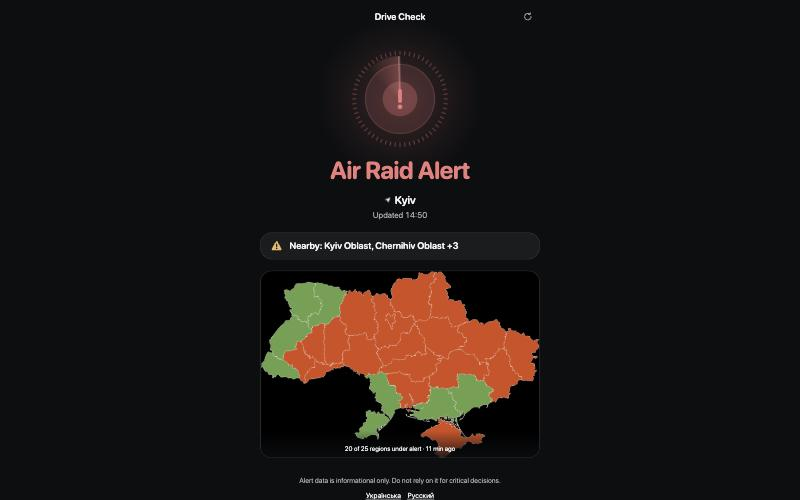
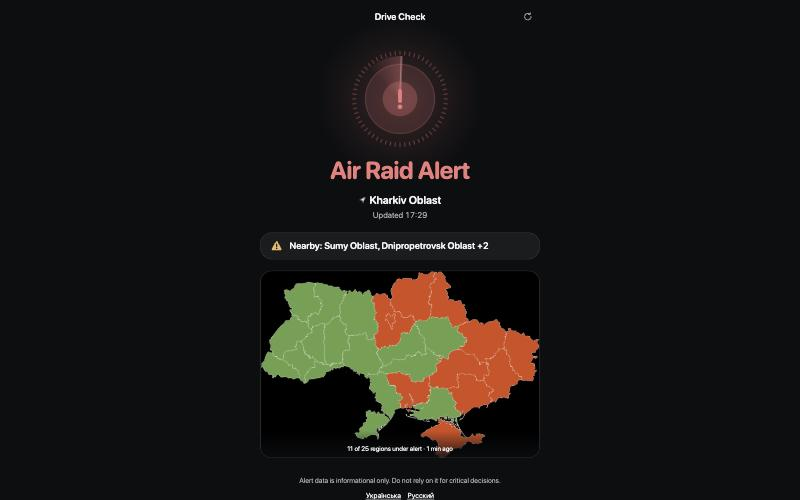
docs: refresh the web app screenshots after the review fixes
The earlier shots predated the clockwise sweep, the overflow fixes, the
Regions age line and the one-language offline page. The new set shows Status
in alarm and calm, Regions and the offline page on a 375 px phone and a
1440 px desktop, from wrangler dev with the live feed.

Validation: npm run check (134 tests); shots taken in the desktop browser.

diff --git a/specs/002-installable-web-app/plan.md b/specs/002-installable-web-app/plan.md
@@ -74,8 +74,8 @@ New:
 - `public/manifest.webmanifest`, `public/icons/*` (from the iOS AppIcon via `sips`),
   `public/_headers`; `scripts/app-assets.mjs` (writes `public/app/assets.json`);
   `tsconfig.client.json`, `tsconfig.sw.json`; `tests/node.d.ts`.
-- `docs/screenshots/`: phone (375 px) Status alarm after idle, Stay Alert (en, uk), quiet, stale,
-  Regions and offline (uk); desktop (1440 px) Status alarm and Regions (uk).
+- `docs/screenshots/`: Status in alarm and calm, Regions and the offline page, each on a phone
+  (375 px) and a desktop (1440 px), taken on `wrangler dev` with the live feed.
 
 Existing test expectations changed because the spec changes them: in `tests/router.test.ts`, the
 stale wording ("Last known: … · HH:mm" replaces "Last known · Updated"), the removed no-`<script>`
